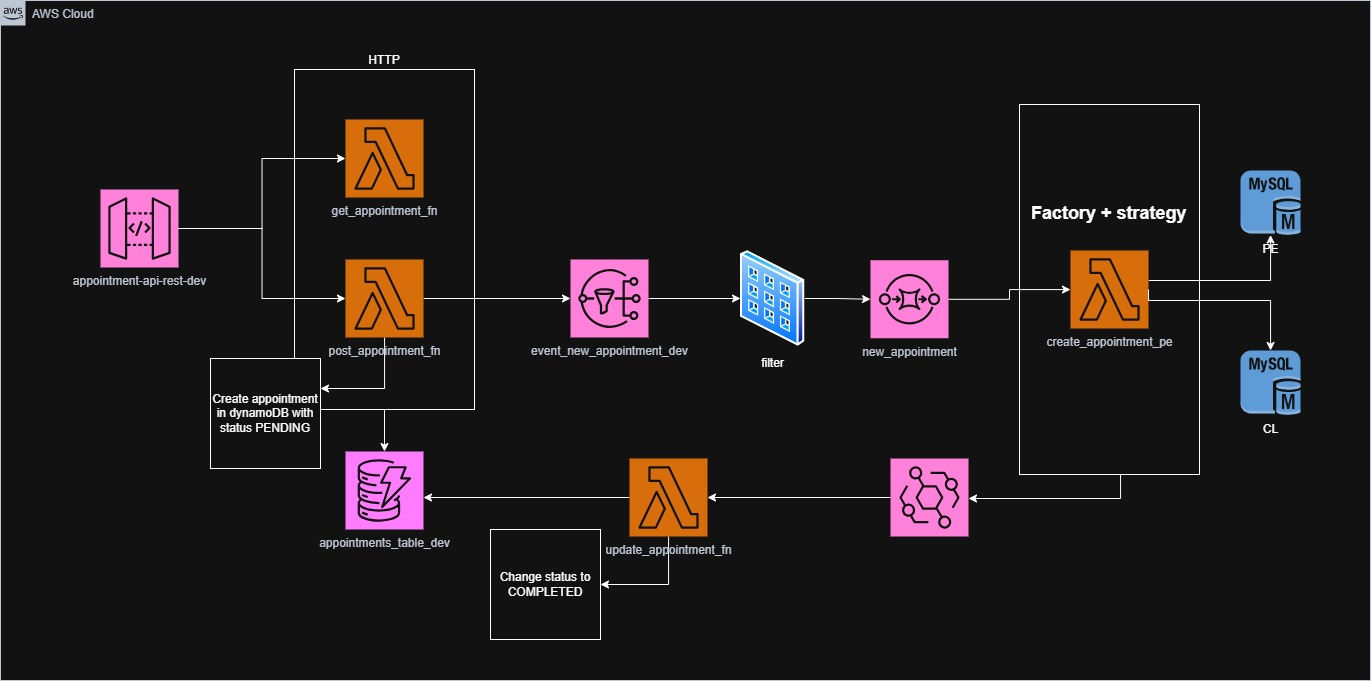
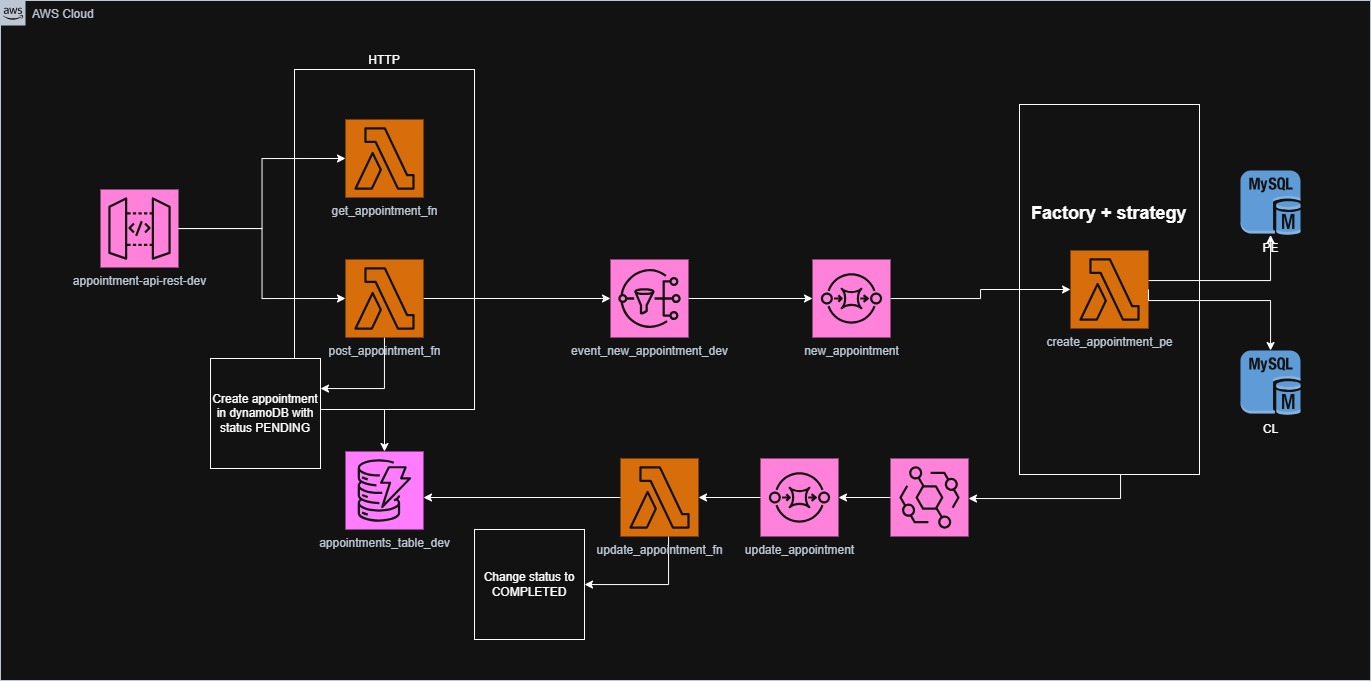
fix: [Jess Figueroa] se realizaron mejoras en la configuración de las estrategias de citas, actualizando las importaciones para utilizar la interfaz `AppointmentRepository` en lugar de `AppointmentRepositoryImpl`. Se eliminaron comentarios innecesarios en el archivo de configuración de SQS y se ajus

Changed region(s): [[0.3982, 0.37, 0.7046, 0.5551], [0.337, 0.6476, 0.6433, 0.8943]]

diff --git a/src/functions/sqs/create_appointment_fn/strategies/chileAppointmentStrategy.ts b/src/functions/sqs/create_appointment_fn/strategies/chileAppointmentStrategy.ts
@@ -1,16 +1,15 @@
 import { Appointment, AppointmentStatus, EventPublisher, Logger } from 'shared';
-import { CountryAppointmentStrategy } from '../interfaces';
-import { AppointmentRepositoryImpl } from '../repositories/appointmentRepository';
+import { AppointmentRepository, CountryAppointmentStrategy } from '../interfaces';
 
 /**
  * Class that provides a strategy for creating appointments in Chile
- * @param {AppointmentRepositoryImpl} appointmentRepository - The appointment repository
+ * @param {AppointmentRepository} appointmentRepository - The appointment repository
  * @param {Logger} logger - The logger instance
  * @param {EventPublisher} eventPublisher - The event publisher
  */
 export class ChileAppointmentStrategy implements CountryAppointmentStrategy {
     constructor(
-        private appointmentRepository: AppointmentRepositoryImpl,
+        private appointmentRepository: AppointmentRepository,
         private logger: Logger,
         private eventPublisher: EventPublisher,
     ) {}

diff --git a/src/functions/sqs/create_appointment_fn/strategies/peruAppointmentStrategy.ts b/src/functions/sqs/create_appointment_fn/strategies/peruAppointmentStrategy.ts
@@ -1,16 +1,15 @@
 import { Appointment, AppointmentStatus, EventPublisher, Logger } from 'shared';
-import { CountryAppointmentStrategy } from '../interfaces';
-import { AppointmentRepositoryImpl } from '../repositories/appointmentRepository';
+import { AppointmentRepository, CountryAppointmentStrategy } from '../interfaces';
 
 /**
  * Class that provides a strategy for creating appointments in Peru
- * @param {AppointmentRepositoryImpl} appointmentRepository - The appointment repository
+ * @param {AppointmentRepository} appointmentRepository - The appointment repository
  * @param {Logger} logger - The logger instance
  * @param {EventPublisher} eventPublisher - The event publisher
  */
 export class PeruAppointmentStrategy implements CountryAppointmentStrategy {
     constructor(
-        private appointmentRepository: AppointmentRepositoryImpl,
+        private appointmentRepository: AppointmentRepository,
         private logger: Logger,
         private eventPublisher: EventPublisher,
     ) {}

diff --git a/packages/shared/src/aws/database/mySQLDBAdapter.ts b/packages/shared/src/aws/database/mySQLDBAdapter.ts
@@ -40,7 +40,7 @@ export class MySQLAdapter implements Save, GetAllById {
      */
     async getAllById<K>(field: string, id: string, deleteItems: string[] = []): Promise<K[]> {
         const resp: K[] = await this.db.query(`select * from ${this.tableName} where ${field} = ?`, [id]);
-
+        await this.closeConnection();
         return resp.map((element) => {
             for (const item of deleteItems) {
                 delete (element as Record<string, any>)[item];
@@ -67,7 +67,7 @@ export class MySQLAdapter implements Save, GetAllById {
      * @returns {Promise<void>}
      * @private
      */
-    private async closeConnection() {
+    private async closeConnection(): Promise<void> {
         await this.db.end();
     }
 }

diff --git a/src/functions/sqs/create_appointment_fn/configs/config.ts b/src/functions/sqs/create_appointment_fn/configs/config.ts
@@ -1,7 +1,6 @@
 import { DatabaseConfig, EventPublisher, Logger } from 'shared';
-import { CountryAppointmentStrategy } from '../interfaces';
+import { AppointmentRepository, CountryAppointmentStrategy } from '../interfaces';
 import { ChileAppointmentStrategy, PeruAppointmentStrategy } from '../strategies';
-import { AppointmentRepository } from '../interfaces/appointmentRepository';
 
 interface CountryConfig {
     eventBridge: {

diff --git a/src/functions/http/post_appointment_fn/interfaces/repositories/appointmentRepository.ts b/src/functions/http/post_appointment_fn/interfaces/repositories/appointmentRepository.ts
@@ -1,4 +1,4 @@
-import { Appointment } from "../../schemas/appointment";
+import { Appointment } from '../../schemas/appointment';
 
 export interface AppointmentRepository {
     save(appointment: Appointment): Promise<boolean>;

diff --git a/src/functions/sqs/create_appointment_fn/interfaces/index.ts b/src/functions/sqs/create_appointment_fn/interfaces/index.ts
@@ -1,1 +1,2 @@
 export * from './appointmentStrategy';
+export * from './appointmentRepository';